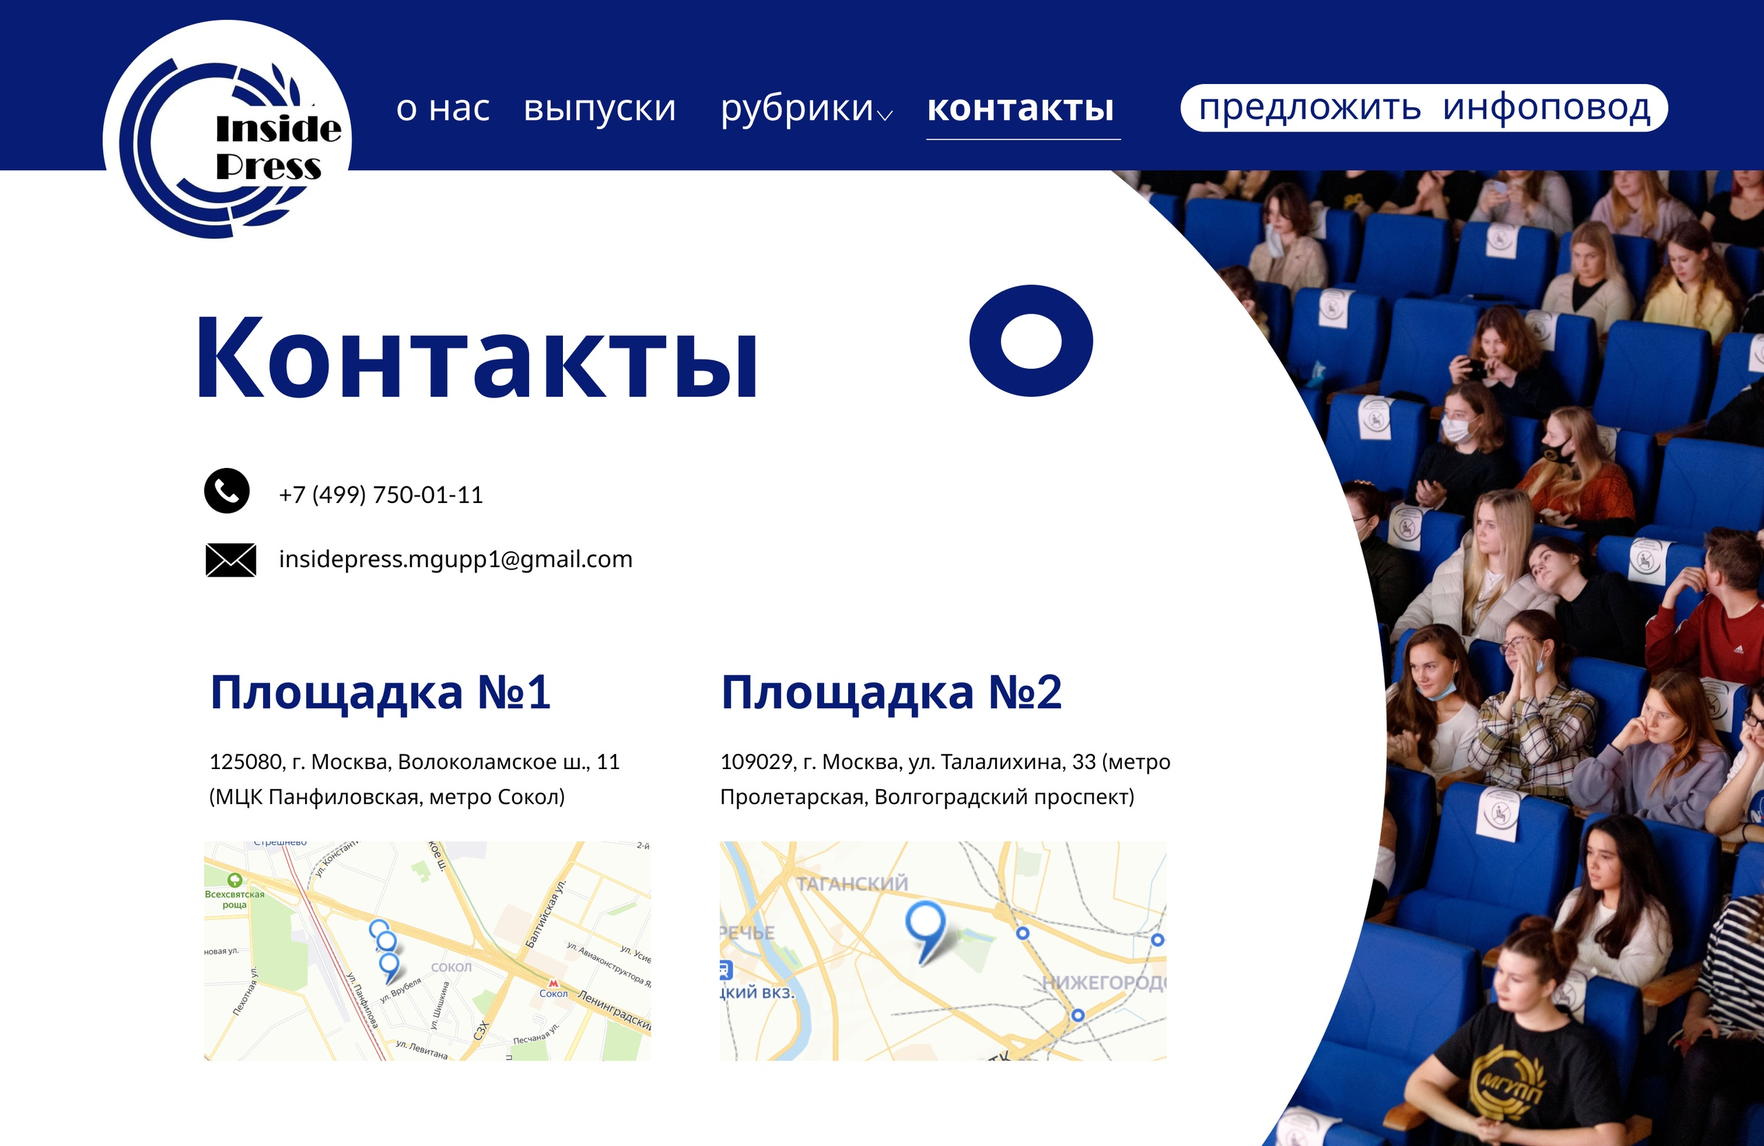
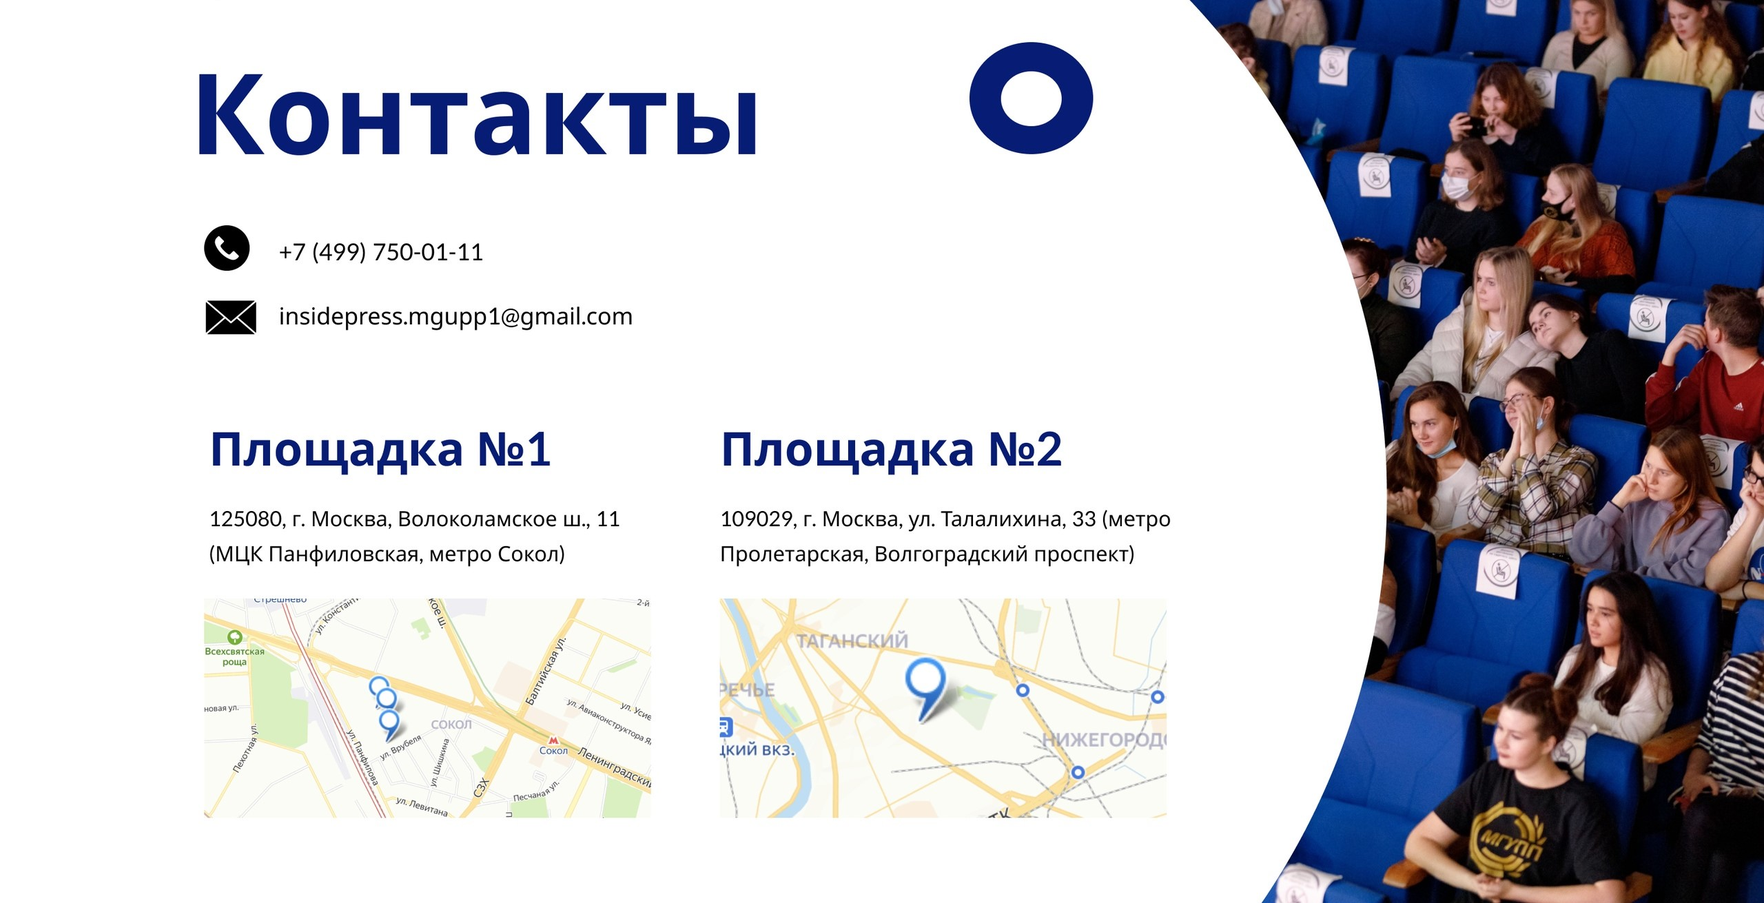
01.05

diff --git a/public/stylesheets/styles.css b/public/stylesheets/styles.css
@@ -1,1 +1,1 @@
-*{margin:0;padding:0;box-sizing:border-box}button,input,textarea{outline:none}.container{-ms-flex-item-align:center;align-self:center;display:-ms-flexbox;display:flex}@media (min-width:992px){.container{width:970px}}@media (min-width:768px) and (max-width:991px){.container{width:750px}}@media (max-width:767px){.container{width:100%}}html{font-size:.875em}body{font-family:Lucida Grande,Lucida Sans Unicode,Arial,Helvetica,Verdana,sans-serif;font-weight:400;line-height:1.45}p{margin-bottom:1.3em}h1,h2,h3,h4{margin:1.414em 0 .5em;font-weight:inherit;line-height:1.2}h1{margin-top:0;font-size:2.441em}h2{font-size:1.953em}h3{font-size:1.563em}h4{font-size:1.25em}.font_small,small{font-size:.8em}div.error,div.success,p.error,p.success{background-color:#edfccc;border:1px solid #87bf0a;font-size:.8em;padding:7.5px;color:#87bf0a;border-radius:2px}div.error,p.error{background-color:#fde1dc;border-color:#e82c0c;color:#e82c0c}form{display:-ms-flexbox;display:flex;-ms-flex-direction:column;flex-direction:column}form .form-group{margin-bottom:15px}form .form-group label{font-size:.9em}.button,button{color:#fff;background-color:#071c75;font-size:14px;border:1px solid #071c75;cursor:pointer;height:33px;padding-left:15px;padding-right:15px;display:-ms-flexbox;display:flex;-ms-flex-align:center;align-items:center;border-radius:2px}.button:active,button:active{box-shadow:inset 0 0 15px rgba(0,0,0,.2)}.button:hover,button:hover{text-decoration:none}.button.inverse,button.inverse{color:#071c75;background-color:#fff}.button.secondary,button.secondary{background-color:#e8e8e8;border:1px solid #e8e8e8}.button.secondary-inverse,button.secondary-inverse{color:#d9ab4d;border-color:#d9ab4d;background-color:#fff}input,textarea{background-color:#fff;border:1px solid #e8e8e8;display:table;border-collapse:separate;overflow:hidden;position:relative;width:100%;font-size:14px;border-radius:2px}input:disabled,textarea:disabled{background-color:#e8e8e8}input:hover,textarea:hover{box-shadow:0}input:focus,textarea:focus{border-color:#5372f5}input::-webkit-input-placeholder,textarea::-webkit-input-placeholder{opacity:.8;font-style:italic}input::-moz-placeholder,textarea::-moz-placeholder{opacity:.8;font-style:italic}input:-ms-input-placeholder,input::-ms-input-placeholder,textarea:-ms-input-placeholder,textarea::-ms-input-placeholder{opacity:.8;font-style:italic}input::placeholder,textarea::placeholder{opacity:.8;font-style:italic}input{height:36px;padding-left:10px;padding-right:10px}textarea{padding:8px 10px;min-height:80px}div.error,input.error,textarea.error{border-color:#e82c0c!important;color:#e82c0c}div.error::-webkit-input-placeholder,input.error::-webkit-input-placeholder,textarea.error::-webkit-input-placeholder{color:#f77963}div.error::-moz-placeholder,input.error::-moz-placeholder,textarea.error::-moz-placeholder{color:#f77963}div.error:-ms-input-placeholder,div.error::-ms-input-placeholder,input.error:-ms-input-placeholder,input.error::-ms-input-placeholder,textarea.error:-ms-input-placeholder,textarea.error::-ms-input-placeholder{color:#f77963}div.error::placeholder,input.error::placeholder,textarea.error::placeholder{color:#f77963}.a,.link,a{color:#071c75;text-decoration:none;cursor:pointer}.a:hover,.link:hover,a:hover{text-decoration:underline}html{flex-direction:column;min-height:100%}body,html{display:-ms-flexbox;display:flex;-ms-flex-direction:column}body{flex-direction:column;-ms-flex:auto;flex:auto;color:#333;background-color:#fafafa;padding-top:105px}.header{position:fixed;top:0;width:100%;display:-ms-flexbox;display:flex;-ms-flex-direction:column;flex-direction:column;-ms-flex-pack:distribute;justify-content:space-around;height:90px;font-size:15px;background-color:#071c75;opacity:.9;z-index:2}.header .logo{background-image:url(../images/round_logo.png);background-repeat:no-repeat;background-size:contain;background-position:50%;width:150px;height:140px;margin-top:3.8%}.header .container{height:100%;width:85%;-ms-flex-pack:justify;justify-content:space-between;-ms-flex-align:center;align-items:center;padding:0 15px}.header .container .infopovod{width:300px;height:35px;border-radius:12px;background-color:#fff;font-style:normal;font-weight:600;font-size:17px;text-align:center;line-height:35px}.header .container .menu{display:-ms-flexbox;display:flex;list-style:none;height:100%;-ms-flex-align:center;align-items:center;font-size:17px;font-weight:550}.header .container .menu li a{color:#fff}.main{display:-ms-flexbox;display:flex;-ms-flex-direction:column;flex-direction:column;-ms-flex-positive:1;flex-grow:1}.main .container .content{-ms-flex:3;flex:3;margin-right:15px;margin-bottom:15px;min-height:100px}.main .container .content .pagination{font-size:1.15em}.main .container .content .pagination .old{float:right}.main .container .content .pagination .new{float:left}.main .container .sidebar{-ms-flex:1;flex:1;position:relative;display:-ms-flexbox;display:flex;-ms-flex-direction:column;flex-direction:column}.main .container .sidebar .box{margin-bottom:15px;padding:15px;width:100%;min-height:100px;border:1px solid #e8e8e8;background-color:#fff;border-radius:2px}.main .container .sidebar .box ul{list-style:none}.main .container .sidebar .box ul li{padding:2px 0}@media (min-width:768px) and (max-width:991px){.main .container .content{-ms-flex:1;flex:1;margin-right:0;margin-bottom:15px}.main .container .sidebar{-ms-flex-direction:row;flex-direction:row;-ms-flex-pack:justify;justify-content:space-between;-ms-flex-align:start;align-items:flex-start}.main .container .sidebar .box{margin-right:15px}}@media (max-width:767px){.main .container .content{-ms-flex:1;flex:1;margin-right:0;margin-bottom:15px}}@media (max-width:991px){.main .container{-ms-flex-direction:column-reverse;flex-direction:column-reverse}}.footer{display:-ms-flexbox;display:flex;-ms-flex-direction:row;flex-direction:row;-ms-flex-pack:space-evenly;justify-content:space-evenly;height:175px;border-top:1px solid #fff;background-color:#071c75}.footer .logo{background-image:url(../images/square_logo.jpg);background-repeat:no-repeat;background-size:cover;background-position:50%;width:175px;height:175px}.footer .container{display:-ms-flexbox;display:flex;-ms-flex-direction:column;flex-direction:column;-ms-flex-pack:distribute;justify-content:space-around;height:100%;line-height:175px}.footer .container .textbox{color:#fff;overflow-wrap:break-word;line-height:normal;font-size:14px;font-weight:400}.post{display:-ms-flexbox;display:flex;-ms-flex-direction:column;flex-direction:column;border:1px solid #e8e8e8;padding:15px;margin-bottom:15px;background-color:#fff;border-radius:2px}.post .top h2{margin-top:0}.post .body p{text-align:justify}.post .body img{width:100%}.post .bottom{font-size:.9em;display:-ms-flexbox;display:flex;-ms-flex-pack:justify;justify-content:space-between}.add-post{margin-bottom:15px;padding:15px;width:100%;min-height:100px;border:1px solid #e8e8e8;background-color:#fff;border-radius:2px}.add-post h2{margin-top:0;margin-bottom:30px}.add-post form .buttons{display:-ms-flexbox;display:flex;-ms-flex-pack:end;justify-content:flex-end}.add-post form .buttons button{margin-left:30px}.add-post form #post-body{min-height:200px!important;background-color:#fff!important;border:1px solid #e8e8e8;padding:8px 10px;outline:none}.add-post #fileinfo{-ms-flex-direction:row;flex-direction:row;-ms-flex-pack:start;justify-content:flex-start;padding:15px;background-color:#fff;margin-bottom:15px}.add-post #fileinfo,.add-post #fileinfo .custom-file-upload{display:-ms-flexbox;display:flex;-ms-flex-align:center;align-items:center;border:1px solid #e8e8e8;border-radius:2px}.add-post #fileinfo .custom-file-upload{overflow:hidden;position:relative;cursor:pointer;padding-left:15px;padding-right:15px;height:50px}.add-post #fileinfo .custom-file-upload input[type=file]{display:none}.add-post #fileinfo .img-container{height:50px;border:1px solid #e8e8e8;margin-right:15px}.add-post #fileinfo .img-container img{height:100%}.auth{display:-ms-flexbox;display:flex;-ms-flex-direction:column;flex-direction:column}.auth h2{margin-top:0;font-size:1.7em}.auth form .buttons{display:-ms-flexbox;display:flex;-ms-flex-pack:justify;justify-content:space-between}.auth form .buttons button{font-size:13px;padding-left:12px;padding-right:12px}.auth .register{display:none}.comments{display:-ms-flexbox;display:flex;-ms-flex-direction:column;flex-direction:column;border:1px solid #e8e8e8;padding:15px;margin-bottom:15px;background-color:#fff;border-radius:2px}.comments h3{margin-top:0}.comments form.comment{display:none;-ms-flex-direction:column;flex-direction:column;max-width:500px;margin-top:6px}.comments form.comment textarea{margin-bottom:12px}.comments form.comment .buttons{-ms-flex-item-align:end;align-self:flex-end;display:-ms-flexbox;display:flex}.comments form.comment .buttons button{margin-left:15px;height:24px;font-size:.9em}.comments .comment-list>ul{margin-bottom:19.5px}.comments .comment-list ul{list-style:none;border-left:1px solid #e8e8e8;padding-left:18px}.comments .comment-list ul:first-child{padding-left:0;border-left:0}.comments .comment-list ul li{-ms-flex-direction:column;flex-direction:column;margin-top:15px}.comments .comment-list ul li,.comments .comment-list ul li .head{display:-ms-flexbox;display:flex}.comments .comment-list ul li .head .date{margin-left:7px;font-style:italic;color:#a6a6a6}.back_form .form{display:-ms-flexbox;display:flex;-ms-flex-direction:column;flex-direction:column;-ms-flex-pack:distribute;justify-content:space-around;width:50%;height:75%;background-color:#071c75;border-radius:30px;z-index:1;position:absolute;top:25%;left:20%;-ms-flex-align:center;align-items:center}.back_form .form .submit{background-color:#f08080}.back_form .form .textbox{width:100%;height:5%;font-style:normal;font-weight:300;font-size:40px;line-height:90px;text-align:center;color:#fff;text-shadow:0 4px 4px hsla(0,0%,100%,.25)}.back_form .form .bigfield{background:#ddd;border-radius:30px;width:80%;height:45%}.back_form .form .field{background:#ddd;border-radius:30px;width:80%;height:9%}.back_form .container{height:800px;background-image:url(../images/back_form.jpg);background-color:#D8D7D766;opacity:.4}.back_form .container,.contacts{width:auto;background-repeat:no-repeat;background-size:cover;background-position:top}.contacts{background-image:url(../images/contacts.jpg);height:1020px}.contacts .heading{position:absolute;top:15%;left:10%;font-size:50;font-weight:600;color:#071c75}.contacts .container{display:-ms-flexbox;display:flex;-ms-flex-direction:column;flex-direction:column;-ms-flex-pack:distribute;justify-content:space-around;height:100%}.about{background-image:url(../images/about.jpg);width:auto;height:1020px;background-repeat:no-repeat;background-size:cover;background-position:top}.about .heading{position:absolute;top:15%;left:10%;font-size:50;font-weight:600;color:#071c75}.about .container{display:-ms-flexbox;display:flex;-ms-flex-direction:column;flex-direction:column;-ms-flex-pack:distribute;justify-content:space-around;height:100%}
+*{margin:0;padding:0;box-sizing:border-box}button,input,textarea{outline:none}.container{-ms-flex-item-align:center;align-self:center;display:-ms-flexbox;display:flex}@media (min-width:992px){.container{width:970px}}@media (min-width:768px) and (max-width:991px){.container{width:750px}}@media (max-width:767px){.container{width:100%}}html{font-size:.875em}body{font-family:Lucida Grande,Lucida Sans Unicode,Arial,Helvetica,Verdana,sans-serif;font-weight:400;line-height:1.45}p{margin-bottom:1.3em}h1,h2,h3,h4{margin:1.414em 0 .5em;font-weight:inherit;line-height:1.2}h1{margin-top:0;font-size:2.441em}h2{font-size:1.953em}h3{font-size:1.563em}h4{font-size:1.25em}.font_small,small{font-size:.8em}div.error,div.success,p.error,p.success{background-color:#edfccc;border:1px solid #87bf0a;font-size:.8em;padding:7.5px;color:#87bf0a;border-radius:2px}div.error,p.error{background-color:#fde1dc;border-color:#e82c0c;color:#e82c0c}form{display:-ms-flexbox;display:flex;-ms-flex-direction:column;flex-direction:column}form .form-group{margin-bottom:15px}form .form-group label{font-size:.9em}.button,button{color:#fff;background-color:#071c75;font-size:14px;border:1px solid #071c75;cursor:pointer;height:33px;padding-left:15px;padding-right:15px;display:-ms-flexbox;display:flex;-ms-flex-align:center;align-items:center;border-radius:2px}.button:active,button:active{box-shadow:inset 0 0 15px rgba(0,0,0,.2)}.button:hover,button:hover{text-decoration:none}.button.inverse,button.inverse{color:#071c75;background-color:#fff}.button.secondary,button.secondary{background-color:#e8e8e8;border:1px solid #e8e8e8}.button.secondary-inverse,button.secondary-inverse{color:#d9ab4d;border-color:#d9ab4d;background-color:#fff}input,textarea{background-color:#fff;border:1px solid #e8e8e8;display:table;border-collapse:separate;overflow:hidden;position:relative;width:100%;font-size:14px;border-radius:2px}input:disabled,textarea:disabled{background-color:#e8e8e8}input:hover,textarea:hover{box-shadow:0}input:focus,textarea:focus{border-color:#5372f5}input::-webkit-input-placeholder,textarea::-webkit-input-placeholder{opacity:.8;font-style:italic}input::-moz-placeholder,textarea::-moz-placeholder{opacity:.8;font-style:italic}input:-ms-input-placeholder,input::-ms-input-placeholder,textarea:-ms-input-placeholder,textarea::-ms-input-placeholder{opacity:.8;font-style:italic}input::placeholder,textarea::placeholder{opacity:.8;font-style:italic}input{height:36px;padding-left:10px;padding-right:10px}textarea{padding:8px 10px;min-height:80px}div.error,input.error,textarea.error{border-color:#e82c0c!important;color:#e82c0c}div.error::-webkit-input-placeholder,input.error::-webkit-input-placeholder,textarea.error::-webkit-input-placeholder{color:#f77963}div.error::-moz-placeholder,input.error::-moz-placeholder,textarea.error::-moz-placeholder{color:#f77963}div.error:-ms-input-placeholder,div.error::-ms-input-placeholder,input.error:-ms-input-placeholder,input.error::-ms-input-placeholder,textarea.error:-ms-input-placeholder,textarea.error::-ms-input-placeholder{color:#f77963}div.error::placeholder,input.error::placeholder,textarea.error::placeholder{color:#f77963}.a,.link,a{color:#071c75;text-decoration:none;cursor:pointer}.a:hover,.link:hover,a:hover{text-decoration:underline}html{flex-direction:column;min-height:100%}body,html{display:-ms-flexbox;display:flex;-ms-flex-direction:column}body{flex-direction:column;-ms-flex:auto;flex:auto;color:#333;background-color:#fafafa;padding-top:105px}.header{position:fixed;top:0;width:100%;display:-ms-flexbox;display:flex;-ms-flex-direction:column;flex-direction:column;-ms-flex-pack:distribute;justify-content:space-around;height:90px;font-size:15px;background-color:#071c75;opacity:.9;z-index:2}.header .logo{background-image:url(../images/round_logo.png);background-repeat:no-repeat;background-size:contain;background-position:50%;width:150px;height:140px;margin-top:3.8%}.header .container{height:100%;width:85%;-ms-flex-pack:justify;justify-content:space-between;-ms-flex-align:center;align-items:center;padding:0 15px}.header .container .infopovod{width:300px;height:35px;border-radius:12px;background-color:#fff;font-style:normal;font-weight:600;font-size:17px;text-align:center;line-height:35px}.header .container .menu{display:-ms-flexbox;display:flex;list-style:none;height:100%;-ms-flex-align:center;align-items:center;font-size:17px;font-weight:550}.header .container .menu li a{color:#fff}.main{display:-ms-flexbox;display:flex;-ms-flex-direction:column;flex-direction:column;-ms-flex-positive:1;flex-grow:1}.main .container .content{-ms-flex:3;flex:3;margin-right:15px;margin-bottom:15px;min-height:100px}.main .container .content .pagination{font-size:1.15em}.main .container .content .pagination .old{float:right}.main .container .content .pagination .new{float:left}.main .container .sidebar{-ms-flex:1;flex:1;position:relative;display:-ms-flexbox;display:flex;-ms-flex-direction:column;flex-direction:column}.main .container .sidebar .box{margin-bottom:15px;padding:15px;width:100%;min-height:100px;border:1px solid #e8e8e8;background-color:#fff;border-radius:2px}.main .container .sidebar .box ul{list-style:none}.main .container .sidebar .box ul li{padding:2px 0}@media (min-width:768px) and (max-width:991px){.main .container .content{-ms-flex:1;flex:1;margin-right:0;margin-bottom:15px}.main .container .sidebar{-ms-flex-direction:row;flex-direction:row;-ms-flex-pack:justify;justify-content:space-between;-ms-flex-align:start;align-items:flex-start}.main .container .sidebar .box{margin-right:15px}}@media (max-width:767px){.main .container .content{-ms-flex:1;flex:1;margin-right:0;margin-bottom:15px}}@media (max-width:991px){.main .container{-ms-flex-direction:column-reverse;flex-direction:column-reverse}}.footer{display:-ms-flexbox;display:flex;-ms-flex-direction:row;flex-direction:row;-ms-flex-pack:space-evenly;justify-content:space-evenly;height:175px;border-top:1px solid #fff;background-color:#071c75}.footer .logo{background-image:url(../images/square_logo.jpg);background-repeat:no-repeat;background-size:cover;background-position:50%;width:175px;height:175px}.footer .container{display:-ms-flexbox;display:flex;-ms-flex-direction:column;flex-direction:column;-ms-flex-pack:distribute;justify-content:space-around;height:100%;line-height:175px}.footer .container .textbox{color:#fff;overflow-wrap:break-word;line-height:normal;font-size:14px;font-weight:400}.post{display:-ms-flexbox;display:flex;-ms-flex-direction:column;flex-direction:column;border:1px solid #e8e8e8;padding:15px;margin-bottom:15px;background-color:#fff;border-radius:2px}.post .top h2{margin-top:0}.post .body p{text-align:justify}.post .body img{width:100%}.post .bottom{font-size:.9em;display:-ms-flexbox;display:flex;-ms-flex-pack:justify;justify-content:space-between}.add-post{margin-bottom:15px;padding:15px;width:100%;min-height:100px;border:1px solid #e8e8e8;background-color:#fff;border-radius:2px}.add-post h2{margin-top:0;margin-bottom:30px}.add-post form .buttons{display:-ms-flexbox;display:flex;-ms-flex-pack:end;justify-content:flex-end}.add-post form .buttons button{margin-left:30px}.add-post form #post-body{min-height:200px!important;background-color:#fff!important;border:1px solid #e8e8e8;padding:8px 10px;outline:none}.add-post #fileinfo{-ms-flex-direction:row;flex-direction:row;-ms-flex-pack:start;justify-content:flex-start;padding:15px;background-color:#fff;margin-bottom:15px}.add-post #fileinfo,.add-post #fileinfo .custom-file-upload{display:-ms-flexbox;display:flex;-ms-flex-align:center;align-items:center;border:1px solid #e8e8e8;border-radius:2px}.add-post #fileinfo .custom-file-upload{overflow:hidden;position:relative;cursor:pointer;padding-left:15px;padding-right:15px;height:50px}.add-post #fileinfo .custom-file-upload input[type=file]{display:none}.add-post #fileinfo .img-container{height:50px;border:1px solid #e8e8e8;margin-right:15px}.add-post #fileinfo .img-container img{height:100%}.auth{display:-ms-flexbox;display:flex;-ms-flex-direction:column;flex-direction:column}.auth h2{margin-top:0;font-size:1.7em}.auth form .buttons{display:-ms-flexbox;display:flex;-ms-flex-pack:justify;justify-content:space-between}.auth form .buttons button{font-size:13px;padding-left:12px;padding-right:12px}.auth .register{display:none}.comments{display:-ms-flexbox;display:flex;-ms-flex-direction:column;flex-direction:column;border:1px solid #e8e8e8;padding:15px;margin-bottom:15px;background-color:#fff;border-radius:2px}.comments h3{margin-top:0}.comments form.comment{display:none;-ms-flex-direction:column;flex-direction:column;max-width:500px;margin-top:6px}.comments form.comment textarea{margin-bottom:12px}.comments form.comment .buttons{-ms-flex-item-align:end;align-self:flex-end;display:-ms-flexbox;display:flex}.comments form.comment .buttons button{margin-left:15px;height:24px;font-size:.9em}.comments .comment-list>ul{margin-bottom:19.5px}.comments .comment-list ul{list-style:none;border-left:1px solid #e8e8e8;padding-left:18px}.comments .comment-list ul:first-child{padding-left:0;border-left:0}.comments .comment-list ul li{-ms-flex-direction:column;flex-direction:column;margin-top:15px}.comments .comment-list ul li,.comments .comment-list ul li .head{display:-ms-flexbox;display:flex}.comments .comment-list ul li .head .date{margin-left:7px;font-style:italic;color:#a6a6a6}.back_form .form{display:-ms-flexbox;display:flex;-ms-flex-direction:column;flex-direction:column;-ms-flex-pack:distribute;justify-content:space-around;width:50%;height:75%;background-color:#071c75;border-radius:30px;z-index:1;position:absolute;top:25%;left:20%;-ms-flex-align:center;align-items:center}.back_form .form .submit{background-color:#f08080}.back_form .form .textbox{width:100%;height:5%;font-style:normal;font-weight:300;font-size:40px;line-height:90px;text-align:center;color:#fff;text-shadow:0 4px 4px hsla(0,0%,100%,.25)}.back_form .form .bigfield{background:#ddd;border-radius:30px;width:80%;height:45%}.back_form .form .field{background:#ddd;border-radius:30px;width:80%;height:9%}.back_form .container{height:800px;background-image:url(../images/back_form.jpg);background-color:#D8D7D766;opacity:.4}.back_form .container,.contacts{width:auto;background-repeat:no-repeat;background-size:cover;background-position:top}.contacts{background-image:url(../images/contacts.jpg);height:750px}.contacts .heading{position:absolute;top:15%;left:10%;font-size:50;font-weight:600;color:#071c75}.contacts .container{display:-ms-flexbox;display:flex;-ms-flex-direction:column;flex-direction:column;-ms-flex-pack:distribute;justify-content:space-around;height:100%}.about_01{background-image:url(../images/about_01.jpg);width:auto;height:750px;background-repeat:no-repeat;background-size:cover;background-position:top}.about_01 .heading{position:absolute;top:15%;left:10%;font-size:50;font-weight:600;color:#071c75}.about_01 .container{display:-ms-flexbox;display:flex;-ms-flex-direction:column;flex-direction:column;-ms-flex-pack:distribute;justify-content:space-around;height:100%}.about{background-image:url(../images/about.jpg);width:auto;height:1020px;background-repeat:no-repeat;background-size:cover;background-position:top}.about .heading{position:absolute;top:15%;left:10%;font-size:50;font-weight:600;color:#071c75}.about .container{display:-ms-flexbox;display:flex;-ms-flex-direction:column;flex-direction:column;-ms-flex-pack:distribute;justify-content:space-around;height:100%}

diff --git a/dev/scss/_about.scss b/dev/scss/_about.scss
@@ -1,3 +1,27 @@
+.about_01{
+    background-image: url("../images/about_01.jpg");
+    width: auto;
+    height: 750px;
+    background-repeat: no-repeat;
+    background-size: cover;
+    background-position: top;
+
+    .heading{
+        position: absolute;
+        top: 15%;
+        left: 10%;
+        font-size: 50;
+        font-weight: 600;
+        color: $primaryColor;
+    }
+    .container{
+        display: flex;
+        flex-direction: column;
+        justify-content: space-around;
+        height: 100%;
+    }
+}
+
 .about{
     background-image: url("../images/about.jpg");
     width: auto;

diff --git a/dev/scss/_contacts.scss b/dev/scss/_contacts.scss
@@ -1,7 +1,7 @@
 .contacts{
     background-image: url("../images/contacts.jpg");
     width: auto;
-    height: 1020px;
+    height: 750px;
     background-repeat: no-repeat;
     background-size: cover;
     background-position: top;
